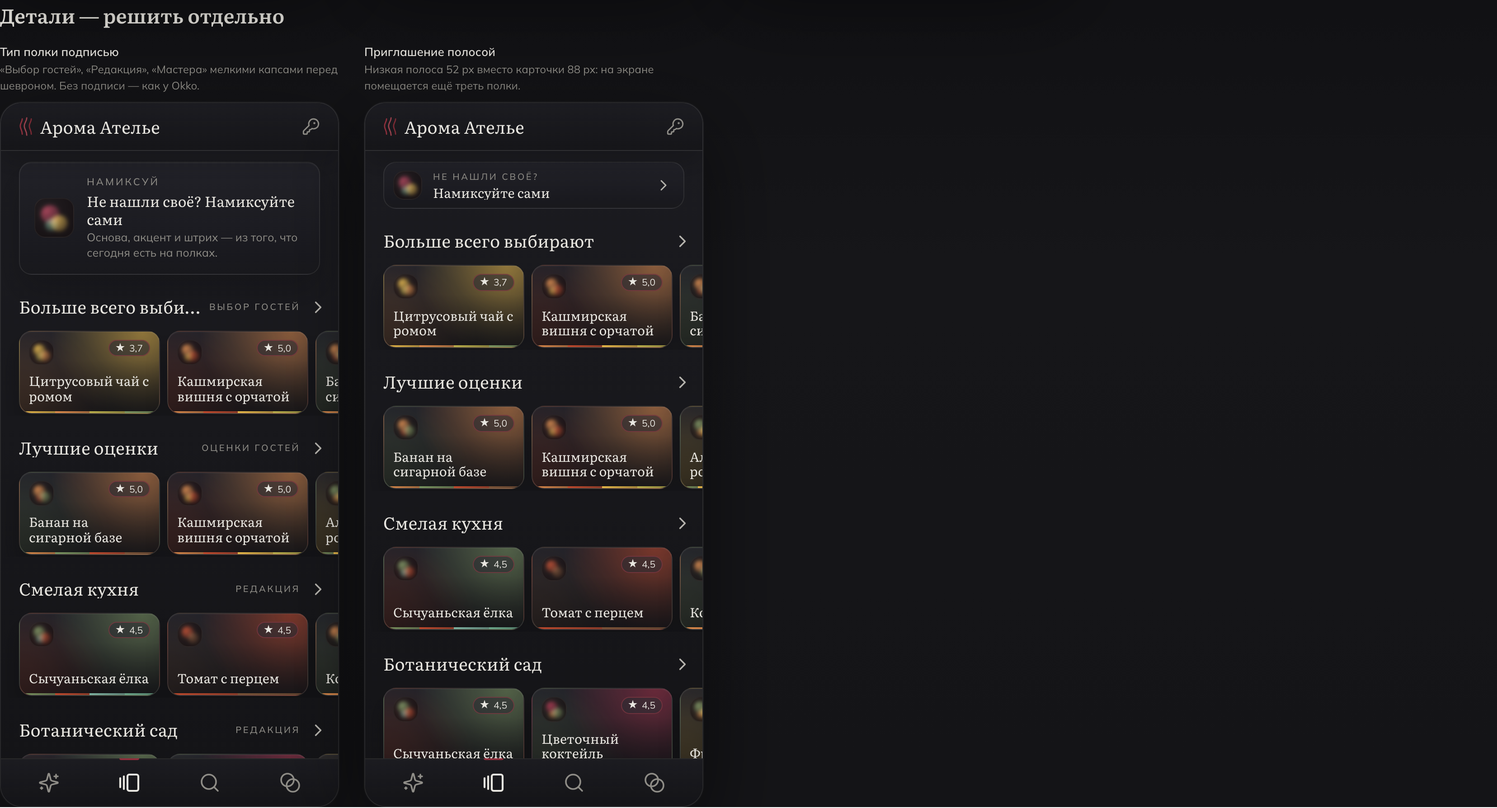
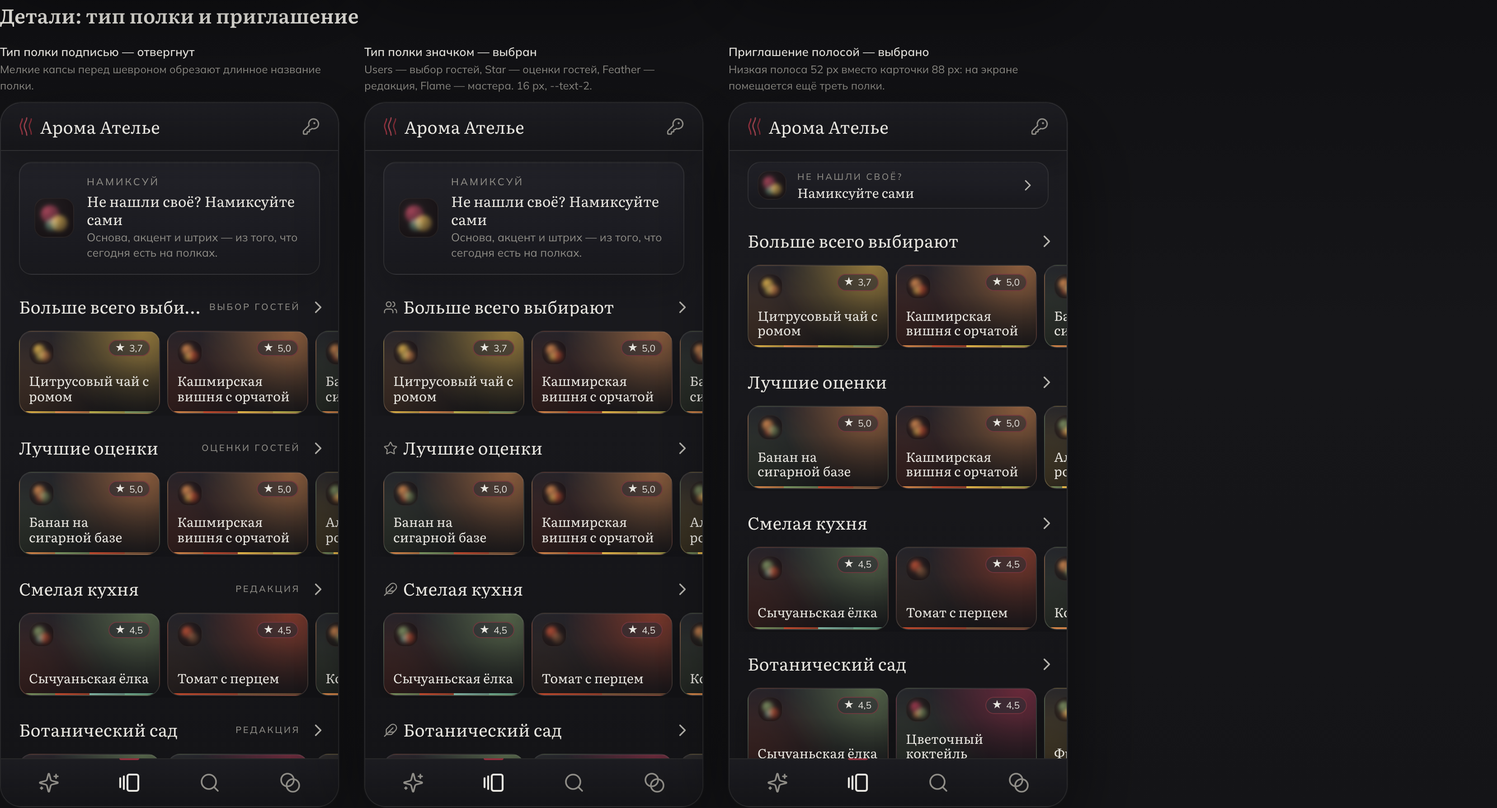
feat(design): Витрина #175, раунд 2 — тип полки значком, итог A + полоса
Владелец выбрал карточку A «постер» и приглашение полосой, тип полки —
значком Lucide слева от названия (Users, Star, Feather, Flame).

diff --git a/design/design_handoff_showcase_compact/board.jsx b/design/design_handoff_showcase_compact/board.jsx
@@ -11,11 +11,14 @@ const tint = (id, share) => 'color-mix(in srgb, ' + profileColor(id) + ' ' + sha
 
 const RAIL_KIND = { statistical: 'Выбор гостей', prepared: 'Редакция', curated: 'Мастера' };
 const shelfKind = (rail) => (rail.id === 'rail-statistical-rated' ? 'Оценки гостей' : RAIL_KIND[rail.type]);
+// Раунд 2: тип полки значком Lucide слева от названия, сам тип — в aria-label.
+const KIND_ICON = { statistical: 'Users', prepared: 'Feather', curated: 'Flame' };
+const shelfIcon = (rail) => (rail.id === 'rail-statistical-rated' ? 'Star' : KIND_ICON[rail.type]);
 const mixById = (id) => M.mixes.find((mix) => mix.id === id);
 
 // Короткая полка для края «1–3 микса»: на проде таких нет, миксы реальные.
 const SHORT_RAIL = { id: 'rail-curated-short', name: 'Мастер смены советует', type: 'curated', description: 'Два микса, которые мастер смены собрал бы себе.', mixIds: [M.rails[2].mixIds[0], M.rails[3].mixIds[1]] };
-const EDGE_RAIL_IDS = ['rail-statistical-top', 'rail-prepared-on-ice', 'rail-prepared-bodrum-sunset'];
+const EDGE_RAIL_IDS = ['rail-statistical-top', 'rail-statistical-rated', 'rail-prepared-on-ice'];
 
 const NAV_ITEMS = [
   { id: 'recommendations', label: 'Подбор', icon: 'Sparkles' },
@@ -166,9 +169,15 @@ function CompactShowcase({ rails, card, kind, invite, onOpen, onOpenRail, onOpen
       {rails.map((rail) => (
         <section key={rail.id} className="sc-rail">
           <h2 className="sc-head">
-            <button type="button" className="sc-head-btn" onClick={() => onOpenRail(rail)} aria-label={'Открыть подборку «' + rail.name + '»'}>
+            <button
+              type="button"
+              className="sc-head-btn"
+              onClick={() => onOpenRail(rail)}
+              aria-label={'Открыть подборку «' + rail.name + '»' + (kind === 'icon' ? ', ' + shelfKind(rail).toLowerCase() : '')}
+            >
+              {kind === 'icon' ? <span className="sc-kind-icon"><Icon name={shelfIcon(rail)} size={16} /></span> : null}
               <span className="sc-title">{rail.name}</span>
-              {kind ? <span className="aroma-caps sc-kind">{shelfKind(rail)}</span> : null}
+              {kind === 'label' ? <span className="aroma-caps sc-kind">{shelfKind(rail)}</span> : null}
               <span className="sc-chev"><Icon name="ChevronRight" size={22} /></span>
             </button>
           </h2>
@@ -197,7 +206,7 @@ function MixerStub({ onBack }) {
   );
 }
 
-function GuestPhone({ layout = 'poster', kind = false, invite = 'card', edge = false, selectedMixId = null, initialRail = null }) {
+function GuestPhone({ layout = 'poster', kind = 'none', invite = 'card', edge = false, selectedMixId = null, initialRail = null }) {
   const rails = edge ? [...EDGE_RAIL_IDS.map((id) => M.rails.find((r) => r.id === id)), SHORT_RAIL] : M.rails;
   const [view, setView] = React.useState(initialRail ? 'rail' : 'showcase');
   const [rail, setRail] = React.useState(initialRail ? M.rails.find((r) => r.id === initialRail) : null);
@@ -271,14 +280,17 @@ function Toggle({ title, value, options, onChange }) {
 }
 
 const SHOTS = [
+  { id: 'final', group: 'final', name: 'Итог · A, значок типа, полоса', note: 'Выбор владельца, раунд 2. В первом кадре три полки целиком и начало четвёртой.', props: { layout: 'poster', kind: 'icon', invite: 'strip' } },
+  { id: 'final-edge', group: 'final', name: 'Итог · края', note: 'Все четыре значка типа, длинные названия, короткая полка.', props: { layout: 'poster', kind: 'icon', invite: 'strip', edge: true } },
   { id: 'now', group: 'compare', name: 'Сейчас', note: 'Карточка 196 px, в кадре полторы карточки и две полки. Бейдж типа справа, «Все» в конце ленты.', props: { layout: 'now' } },
   { id: 'a', group: 'compare', name: 'A · постер', note: 'Горизонтальная карточка 156×92, около двух на экран, как у Okko. Название поверх градиента профиля, без вкусов.', props: { layout: 'poster' } },
   { id: 'b', group: 'compare', name: 'B · плотная', note: 'Вертикальная карточка 132 px, около 2,5 на экран. Остаются вкусы в одну строку.', props: { layout: 'tile' } },
-  { id: 'a-kind', group: 'detail', name: 'Тип полки подписью', note: '«Выбор гостей», «Редакция», «Мастера» мелкими капсами перед шевроном. Без подписи — как у Okko.', props: { layout: 'poster', kind: true } },
-  { id: 'a-strip', group: 'detail', name: 'Приглашение полосой', note: 'Низкая полоса 52 px вместо карточки 88 px: на экране помещается ещё треть полки.', props: { layout: 'poster', invite: 'strip' } },
-  { id: 'a-edge', group: 'edge', name: 'A · края', note: 'Длинные названия миксов и полки, тип подписью, короткая полка из двух миксов.', props: { layout: 'poster', kind: true, edge: true } },
-  { id: 'b-edge', group: 'edge', name: 'B · края', note: 'То же для плотной карточки.', props: { layout: 'tile', kind: true, edge: true } },
-  { id: 'selected', group: 'edge', name: '«Карточка для мастера»', note: 'Выбранный микс закреплён под шапкой, полки прокручиваются под ним.', props: { layout: 'poster', selectedMixId: M.rails[0].mixIds[0] } },
+  { id: 'a-kind', group: 'detail', name: 'Тип полки подписью — отвергнут', note: 'Мелкие капсы перед шевроном обрезают длинное название полки.', props: { layout: 'poster', kind: 'label' } },
+  { id: 'a-icon', group: 'detail', name: 'Тип полки значком — выбран', note: 'Users — выбор гостей, Star — оценки гостей, Feather — редакция, Flame — мастера. 16 px, --text-2.', props: { layout: 'poster', kind: 'icon' } },
+  { id: 'a-strip', group: 'detail', name: 'Приглашение полосой — выбрано', note: 'Низкая полоса 52 px вместо карточки 88 px: на экране помещается ещё треть полки.', props: { layout: 'poster', invite: 'strip' } },
+  { id: 'a-edge', group: 'edge', name: 'A · края, тип подписью', note: 'Длинные названия миксов и полки, короткая полка из двух миксов.', props: { layout: 'poster', kind: 'label', edge: true } },
+  { id: 'b-edge', group: 'edge', name: 'B · края — отвергнут', note: 'Плотная карточка обрезает названия чаще.', props: { layout: 'tile', kind: 'label', edge: true } },
+  { id: 'selected', group: 'edge', name: '«Карточка для мастера»', note: 'Выбранный микс закреплён под шапкой, полки прокручиваются под ним.', props: { layout: 'poster', kind: 'icon', invite: 'strip', selectedMixId: M.rails[0].mixIds[0] } },
   { id: 'rail', group: 'edge', name: 'Подборка по шеврону', note: 'Экран подборки не меняется: «←» возвращает на Витрину.', props: { layout: 'poster', initialRail: 'rail-prepared-on-ice' } },
 ];
 
@@ -302,8 +314,8 @@ function Shot({ id }) {
 
 function Board() {
   const [layout, setLayout] = React.useState('poster');
-  const [kind, setKind] = React.useState(false);
-  const [invite, setInvite] = React.useState('card');
+  const [kind, setKind] = React.useState('icon');
+  const [invite, setInvite] = React.useState('strip');
   const section = (group) => SHOTS.filter((shot) => shot.group === group).map((shot) => <ShotFrame key={shot.id} shot={shot} />);
   return (
     <div className="board">
@@ -320,7 +332,7 @@ function Board() {
         <h2 className="board-h2">Кликабельный прототип</h2>
         <div className="tweaks">
           <Toggle title="Карточка" value={layout} options={[['poster', 'A · постер'], ['tile', 'B · плотная'], ['now', 'Сейчас']]} onChange={setLayout} />
-          <Toggle title="Тип полки" value={kind} options={[[false, 'Нет'], [true, 'Подпись']]} onChange={setKind} />
+          <Toggle title="Тип полки" value={kind} options={[['none', 'Нет'], ['label', 'Подпись'], ['icon', 'Значок']]} onChange={setKind} />
           <Toggle title="Намиксуй" value={invite} options={[['card', 'Карточка'], ['strip', 'Полоса']]} onChange={setInvite} />
         </div>
         <div className="board-row">
@@ -331,12 +343,17 @@ function Board() {
       </section>
 
       <section className="board-section">
-        <h2 className="board-h2">Сейчас и два варианта карточки — выбрать один</h2>
+        <h2 className="board-h2">Итог: A · значок типа · полоса</h2>
+        <div className="board-row">{section('final')}</div>
+      </section>
+
+      <section className="board-section">
+        <h2 className="board-h2">Сейчас и два варианта карточки — выбрана A</h2>
         <div className="board-row">{section('compare')}</div>
       </section>
 
       <section className="board-section">
-        <h2 className="board-h2">Детали — решить отдельно</h2>
+        <h2 className="board-h2">Детали: тип полки и приглашение</h2>
         <div className="board-row">{section('detail')}</div>
       </section>
 

diff --git a/design/design_handoff_showcase_compact/mockups.html b/design/design_handoff_showcase_compact/mockups.html
@@ -201,6 +201,7 @@ body{font-family:var(--font-body);color:var(--text-primary);overflow-x:hidden;ba
 .sc-kind{flex:0 0 auto;margin-left:auto;font-size:10px;color:var(--text-2)}
 .sc-chev{flex:0 0 auto;margin-left:auto;width:32px;height:32px;display:inline-flex;align-items:center;justify-content:center;color:var(--text-1)}
 .sc-kind+.sc-chev{margin-left:-4px}
+.sc-kind-icon{flex:0 0 auto;display:inline-flex;margin-right:-2px;color:var(--text-2)}
 .sc-head-btn:hover .sc-chev,.sc-head-btn:focus-visible .sc-chev{color:var(--text-0)}
 .sc-head-btn:focus-visible{outline:2px solid var(--accent-hover);outline-offset:2px;border-radius:var(--r-guest-control)}
 .sc-scroller{display:flex;gap:8px;overflow-x:auto;padding:0 20px 2px;scroll-snap-type:x proximity;scroll-padding-inline:20px;scrollbar-width:none}

diff --git a/design/design_handoff_showcase_compact/README.md b/design/design_handoff_showcase_compact/README.md
@@ -17,16 +17,17 @@ python3 -m http.server 8765 --bind 127.0.0.1
 - Доска — кликабельный прототип. Переключатели: карточка (A, B или «Сейчас»), тип полки,
   форма приглашения «Намиксуй». Ниже — экраны для сравнения и края.
 - `mockups.html#shot=<id>` — один телефон 375×780 без доски, для скриншотов в issue и PR.
-  Доступные `id`: `now`, `a`, `b`, `a-kind`, `a-strip`, `a-edge`, `b-edge`, `selected`, `rail`.
-- `screens/` — снимки секций доски: `variants.png` (Сейчас, A, B), `details.png` (тип полки и
-  приглашение), `states.png` (края, «Карточка для мастера», подборка).
+  Доступные `id`: `final`, `final-edge`, `now`, `a`, `b`, `a-kind`, `a-icon`, `a-strip`, `a-edge`,
+  `b-edge`, `selected`, `rail`.
+- `screens/` — снимки секций доски: `final.png` (итог и его края), `variants.png` (Сейчас, A, B),
+  `details.png` (тип полки и приглашение), `states.png` (края, «Карточка для мастера», подборка).
 
 ## Файлы
 
 - `mockups.html` — оболочка. Экранные классы скопированы из гостевого UI-кита
   (`.claude/skills/aroma-atelier-design/ui_kits/aroma-guest/index.html`), `.mixer-invite` — из
   `apps/aroma-web/src/components/mixer/mixer.css`. Новые стили (`.sc-*`) лежат в конце блока `<style>`.
-- `board.jsx` — новые `CompactShowcase`, `PosterCard`, `TileCard`, `InviteStrip` и доска.
+- `board.jsx` — новые `CompactShowcase`, `PosterCard`, `TileCard`, `InviteStrip`, значки типа полки и доска.
   Подборка, карточка микса и «Покажите мастеру» берутся из UI-кита без изменений.
 - `showcase-data.js` — 12 полок и 46 миксов прода на 2026-10-15 (`GET /guest/home/rails`) в формате
   `mock-data.js` кита. Полка «Мастер смены советует» в краях условная: на проде нет полок
@@ -34,38 +35,58 @@ python3 -m http.server 8765 --bind 127.0.0.1
 
 ## Что реализовать
 
+Реализуется комбинация `final`: карточка A, тип полки значком, приглашение полосой.
+
 1. **Заголовок полки** — `h2`, внутри кнопка во всю ширину строки, минимальная высота 40 px:
-   - слева название полки: Literata 19 px, одна строка, многоточие при переполнении;
+   - слева значок типа полки Lucide 16 px, stroke 1.8, цвет `--text-2`:
+     - `Users` — «Выбор гостей» (`statistical`);
+     - `Star` — «Оценки гостей» (`rail-statistical-rated`);
+     - `Feather` — «Редакция» (`prepared`);
+     - `Flame` — «Мастера» (`curated`);
+   - дальше название полки: Literata 19 px, одна строка, многоточие при переполнении;
    - справа шеврон Lucide `ChevronRight`, 22 px, цвет `--text-1`, при hover и focus — `--text-0`;
-   - `aria-label` кнопки: «Открыть подборку «<название>»»;
+   - `aria-label` кнопки: «Открыть подборку «<название>», <тип строчными>», например
+     «Открыть подборку «Со льдом», редакция». Значок `aria-hidden`;
    - нажатие открывает подборку (rail), как сейчас по карточке «Все».
-2. **Карточку «Все» в конце ленты убрать.** Бейдж типа полки убрать или заменить подписью,
-   см. «Варианты».
-3. **Карточка микса** — по выбранному варианту, см. ниже. Нажатие открывает карточку микса (sheet), как сейчас.
+2. **Карточку «Все» в конце ленты и бейдж типа полки убрать.**
+3. **Карточка микса — A «постер»**, 156×92 px:
+   - сверху знак профиля `ProfileGlyph` 28 px и `RatingPill` (padding 2×7 px, 10.5 px);
+   - снизу название: Literata 14.5 px, до двух строк, дальше многоточие;
+   - по нижней кромке `SignatureBar` 2 px;
+   - фон: два радиальных пятна цветов первого и второго профиля (55% и 30%) поверх
+     `--guest-card-bg`, затемнение к низу `rgba(15,15,18,.55)`;
+   - вкусов на карточке нет;
+   - нажатие открывает карточку микса (sheet), как сейчас.
 4. **Лента:**
    - зазор между карточками 8 px, поля 20 px;
    - `scroll-snap-type: x proximity`, у карточки `scroll-snap-align: start`, `scroll-padding-inline: 20px`;
    - зазор между полками 16 px, между заголовком и лентой 6 px.
-5. **Приглашение «Намиксуй»** остаётся первым на Витрине. Форма — по выбору владельца.
+5. **Приглашение «Намиксуй» полосой** остаётся первым на Витрине:
+   - высота 52 px, `ProfileGlyph` 32 px;
+   - «Не нашли своё?» — `.aroma-caps` 10 px, «Намиксуйте сами» — Literata 14.5 px;
+   - справа шеврон;
+   - на Витрине `MixerInvite` получает компактную форму; в конце Подбора остаётся карточкой.
 6. Фильтр недоступных миксов и `dedupeRails` не меняются. Пустая Витрина и ошибка загрузки — тоже.
 
 ## Варианты
 
-Владелец выбирает по одному пункту в каждой строке.
+Владелец выбрал (2026-10-15): **A · постер**, **тип полки значком** (раунд 2), **приглашение полосой**.
 
-| Что | Вариант | Как выглядит |
-|---|---|---|
-| Карточка | **A · постер** (`a`) | 156×92 px, около двух на экран. Сверху знак профиля 28 px и рейтинг, снизу название (Literata 14.5 px, до двух строк). Под ним черта `SignatureBar` 2 px по нижней кромке. Фон — два радиальных пятна цветов профиля поверх `--guest-card-bg` и затемнение к низу. Вкусов нет. |
-| | **B · плотная** (`b`) | Ширина 132 px, около 2,5 на экран. Знак 32 px и рейтинг, название до двух строк, `SignatureBar` 2 px, вкусы одной строкой 10.5 px. Длинные названия обрезаются чаще, чем в A. |
-| Тип полки | нет (`a`) | Как у Okko: только название и шеврон. |
-| | подпись (`a-kind`) | «Выбор гостей», «Оценки гостей», «Редакция», «Мастера» — `.aroma-caps` 10 px, `--text-2`, перед шевроном. Длинное название полки обрезается раньше. |
-| Намиксуй | карточка (`a`) | Текущая `MixerInvite`, около 88 px. |
-| | полоса (`a-strip`) | 52 px: знак 32 px, «Не нашли своё?» капсами и «Намиксуйте сами», шеврон справа. В кадре помещается ещё треть полки. |
+| Что | Вариант | Решение | Как выглядит |
+|---|---|---|---|
+| Карточка | **A · постер** (`a`) | **выбрана** | 156×92 px, около двух на экран. Сверху знак профиля 28 px и рейтинг, снизу название (Literata 14.5 px, до двух строк). Под ним черта `SignatureBar` 2 px по нижней кромке. Фон — два радиальных пятна цветов профиля поверх `--guest-card-bg` и затемнение к низу. Вкусов нет. |
+| | B · плотная (`b`) | отвергнута | Ширина 132 px, около 2,5 на экран. Знак 32 px и рейтинг, название до двух строк, `SignatureBar` 2 px, вкусы одной строкой 10.5 px. Длинные названия обрезаются чаще, чем в A. |
+| Тип полки | нет (`a`) | отвергнут | Как у Okko: только название и шеврон. |
+| | подпись (`a-kind`) | отвергнута | «Выбор гостей», «Оценки гостей», «Редакция», «Мастера» — `.aroma-caps` 10 px, `--text-2`, перед шевроном. Длинное название полки обрезается раньше. |
+| | **значок** (`a-icon`) | **выбран** | Lucide 16 px слева от названия, `--text-2`. Тип — в `aria-label` кнопки. Название полки не обрезается. |
+| Намиксуй | карточка (`a`) | отвергнута | Текущая `MixerInvite`, около 88 px. |
+| | **полоса** (`a-strip`) | **выбрана** | 52 px: знак 32 px, «Не нашли своё?» капсами и «Намиксуйте сами», шеврон справа. В кадре помещается ещё треть полки. |
 
 Что видно в первом кадре 375×780 с тонкой шапкой и нижней панелью:
 - сейчас — приглашение и две полки, в каждой полторы карточки;
 - A — приглашение, три полки и заголовок четвёртой, в каждой две карточки и край третьей;
-- B — приглашение и почти три полки, в каждой 2,5 карточки.
+- B — приглашение и почти три полки, в каждой 2,5 карточки;
+- итог (A, значок, полоса) — приглашение, три полки целиком и половина четвёртой.
 
 ## Что не реализовывать
 
@@ -75,9 +96,12 @@ python3 -m http.server 8765 --bind 127.0.0.1
 
 ## Сопутствующие правки в срезе реализации
 
-- `apps/aroma-web/src/lib/showcase.ts` — если тип полки убираем, `railKindLabel` остаётся только
-  в шапке подборки (`Витрина · …`).
+- `apps/aroma-web/src/lib/showcase.ts` — рядом с `railKindLabel` значок типа полки (с тестом в
+  `showcase.test.ts`). `railKindLabel` нужен для `aria-label` и шапки подборки (`Витрина · …`).
 - `tests/smoke/tests/aroma-smoke.spec.ts`: Витрина проверяется через карточку-приглашение и
   таб, локаторы карточки «Все» не используются. Проверить на прогоне.
-- `aroma-atelier-design`: обновить `ShowcaseCard` (размер, фон из `--guest-card-bg`), полку
-  Витрины в гостевом ките и строку о Витрине в `ui_kits/aroma-guest/README.md`.
+- `aroma-atelier-design`:
+  - обновить `ShowcaseCard` (постер, фон из `--guest-card-bg`), полку Витрины в гостевом ките и
+    строку о Витрине в `ui_kits/aroma-guest/README.md`;
+  - в ICONOGRAPHY (`readme.md`, `guidelines/iconography.card.html`) добавить третье место Lucide у
+    гостя: значки типа полки `users`, `star`, `feather`, `flame` и шеврон `chevron-right`.
